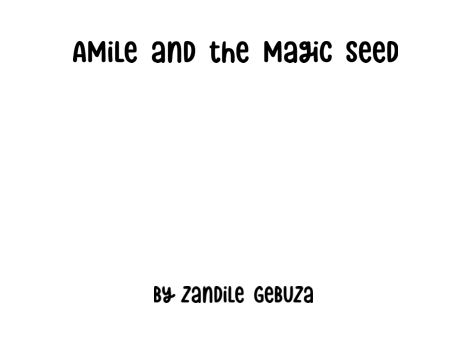
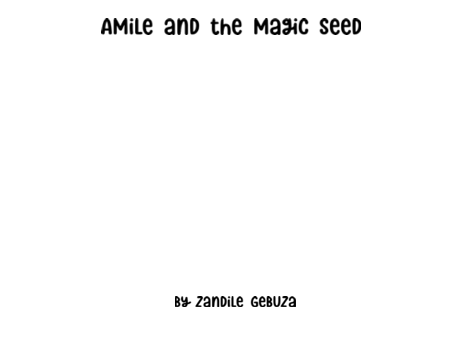
responsive design

Changed region(s): [[0.1505, 0.0291, 0.8731, 0.2035], [0.3312, 0.814, 0.6925, 0.9012]]

diff --git a/src/Styles/Book.css b/src/Styles/Book.css
@@ -30,7 +30,7 @@
   justify-content: flex-start;
   box-shadow: 16px 0 32px -8px rgba(0, 0, 0, 0.486);  
   border: solid 1px black;
-  border-radius: 4%;
+  border-radius: 3%;
 }
 
 .page-content{
